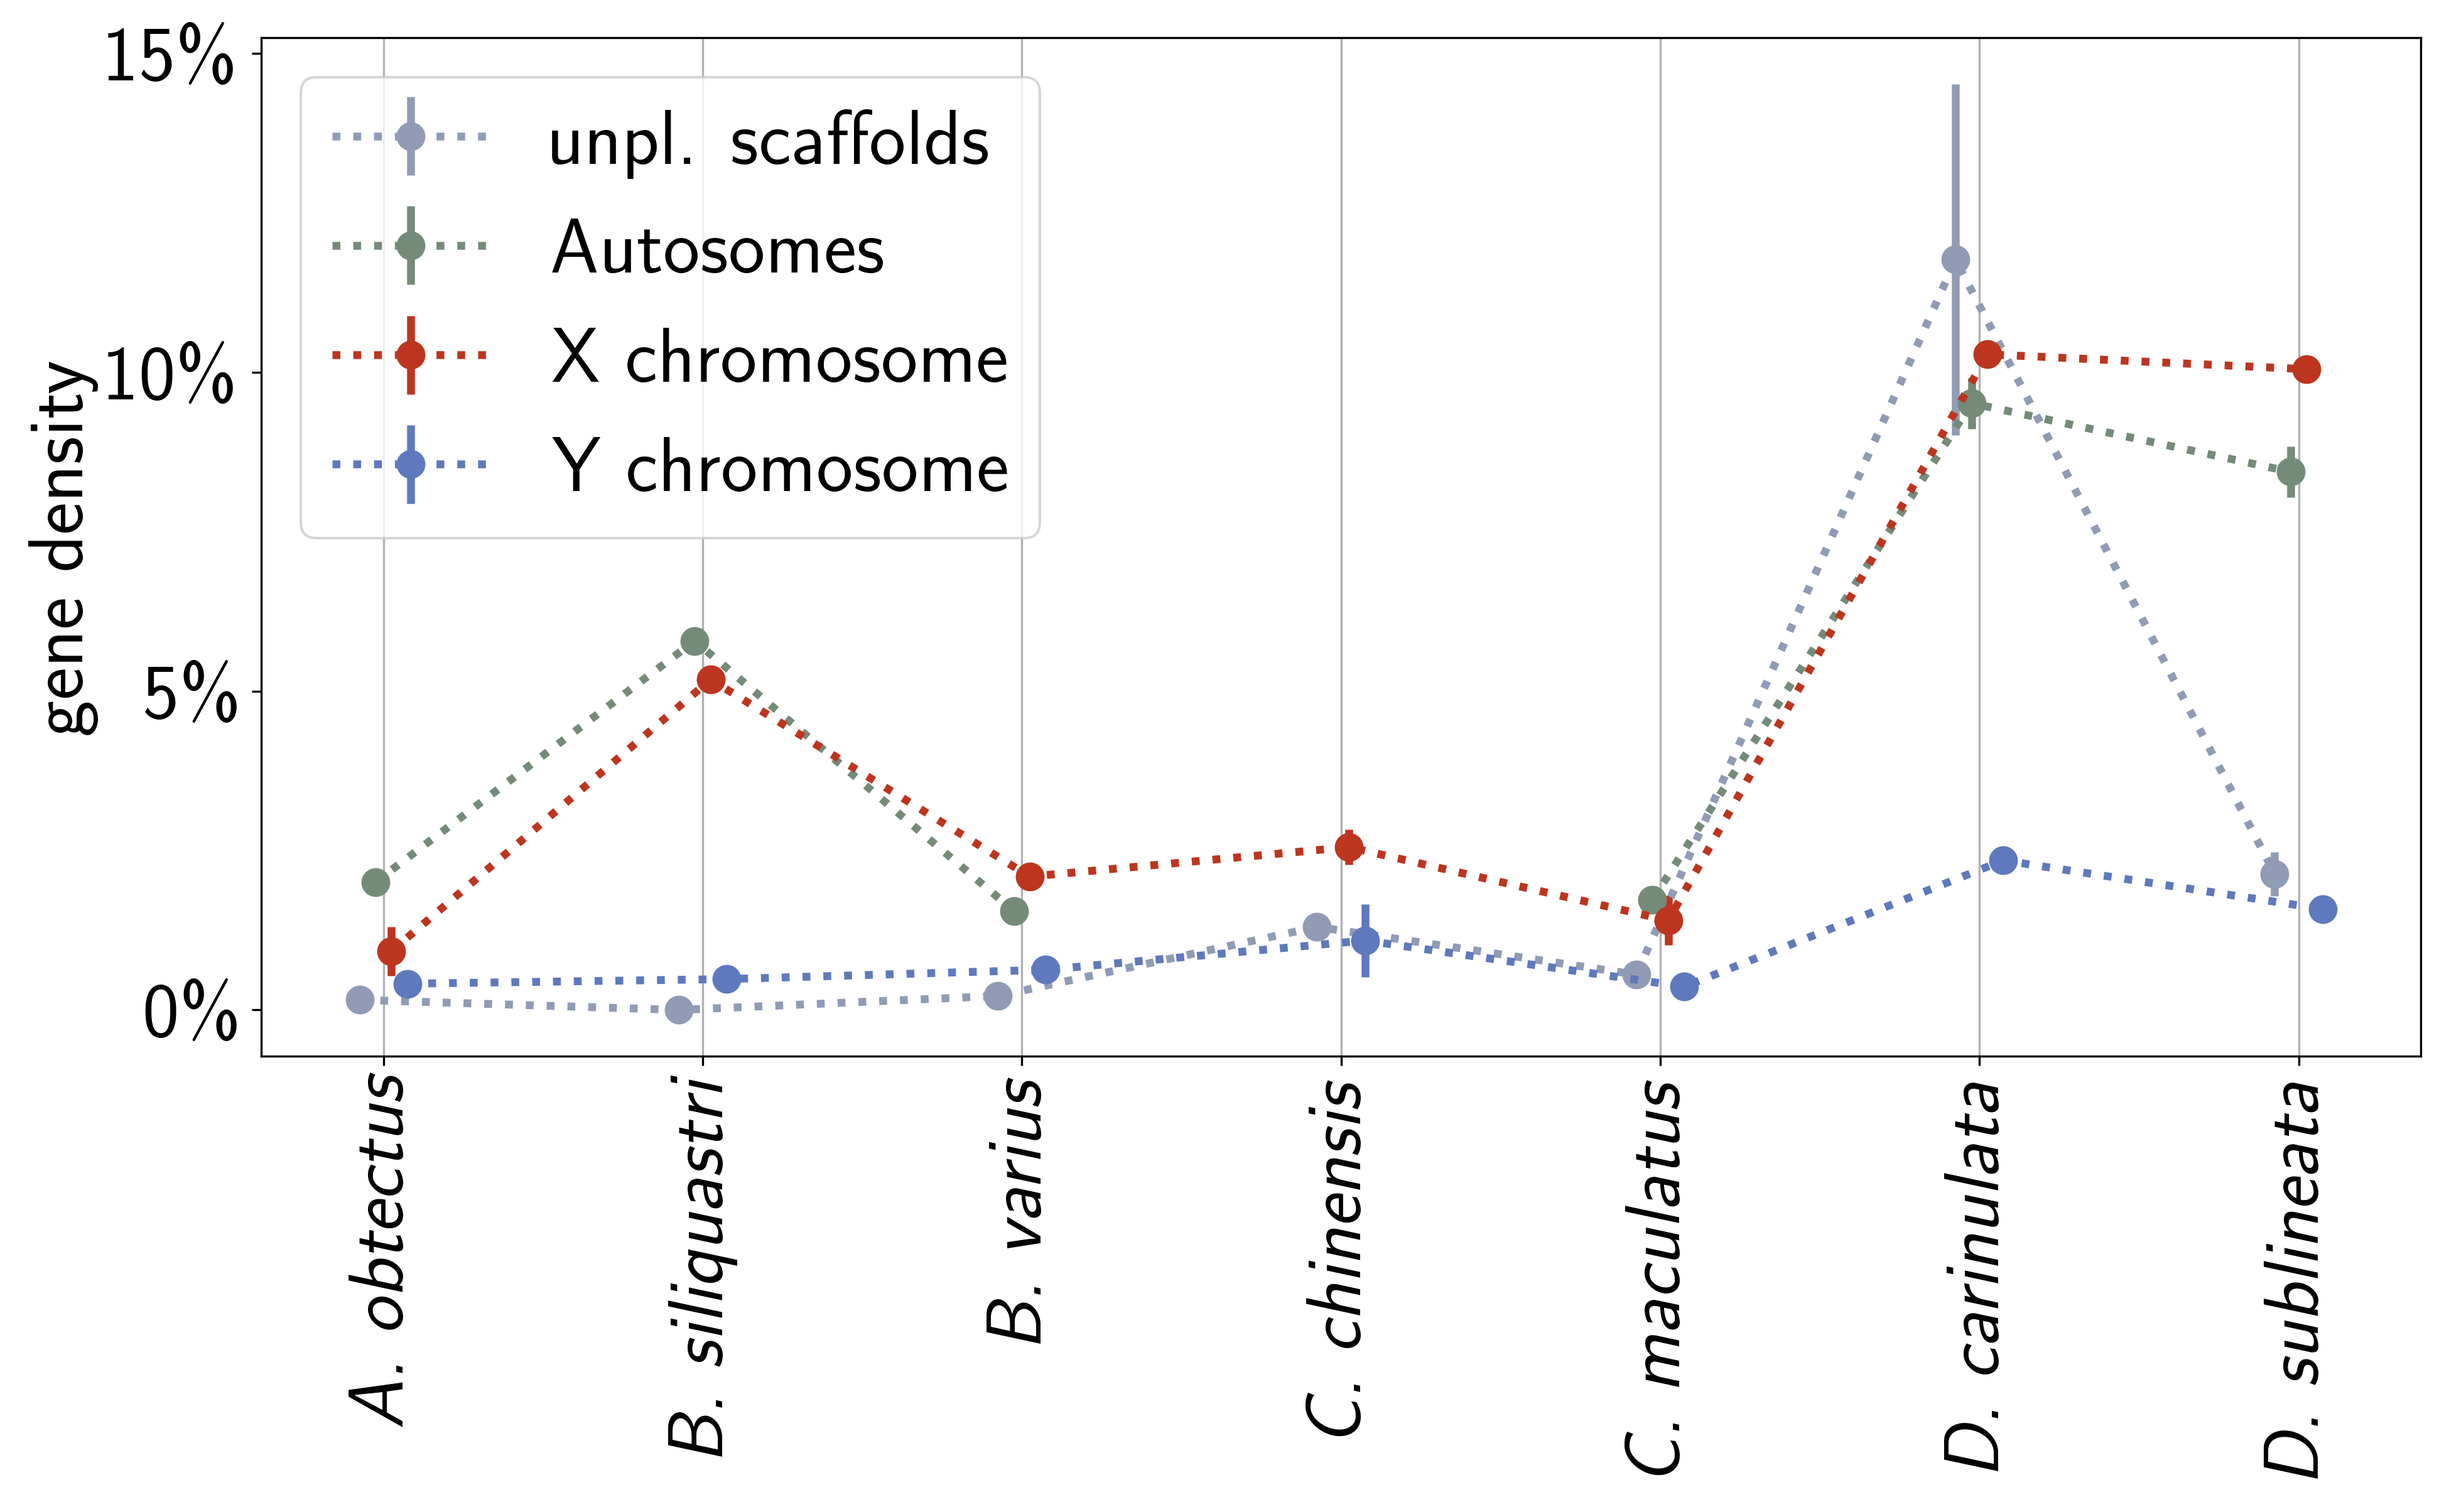
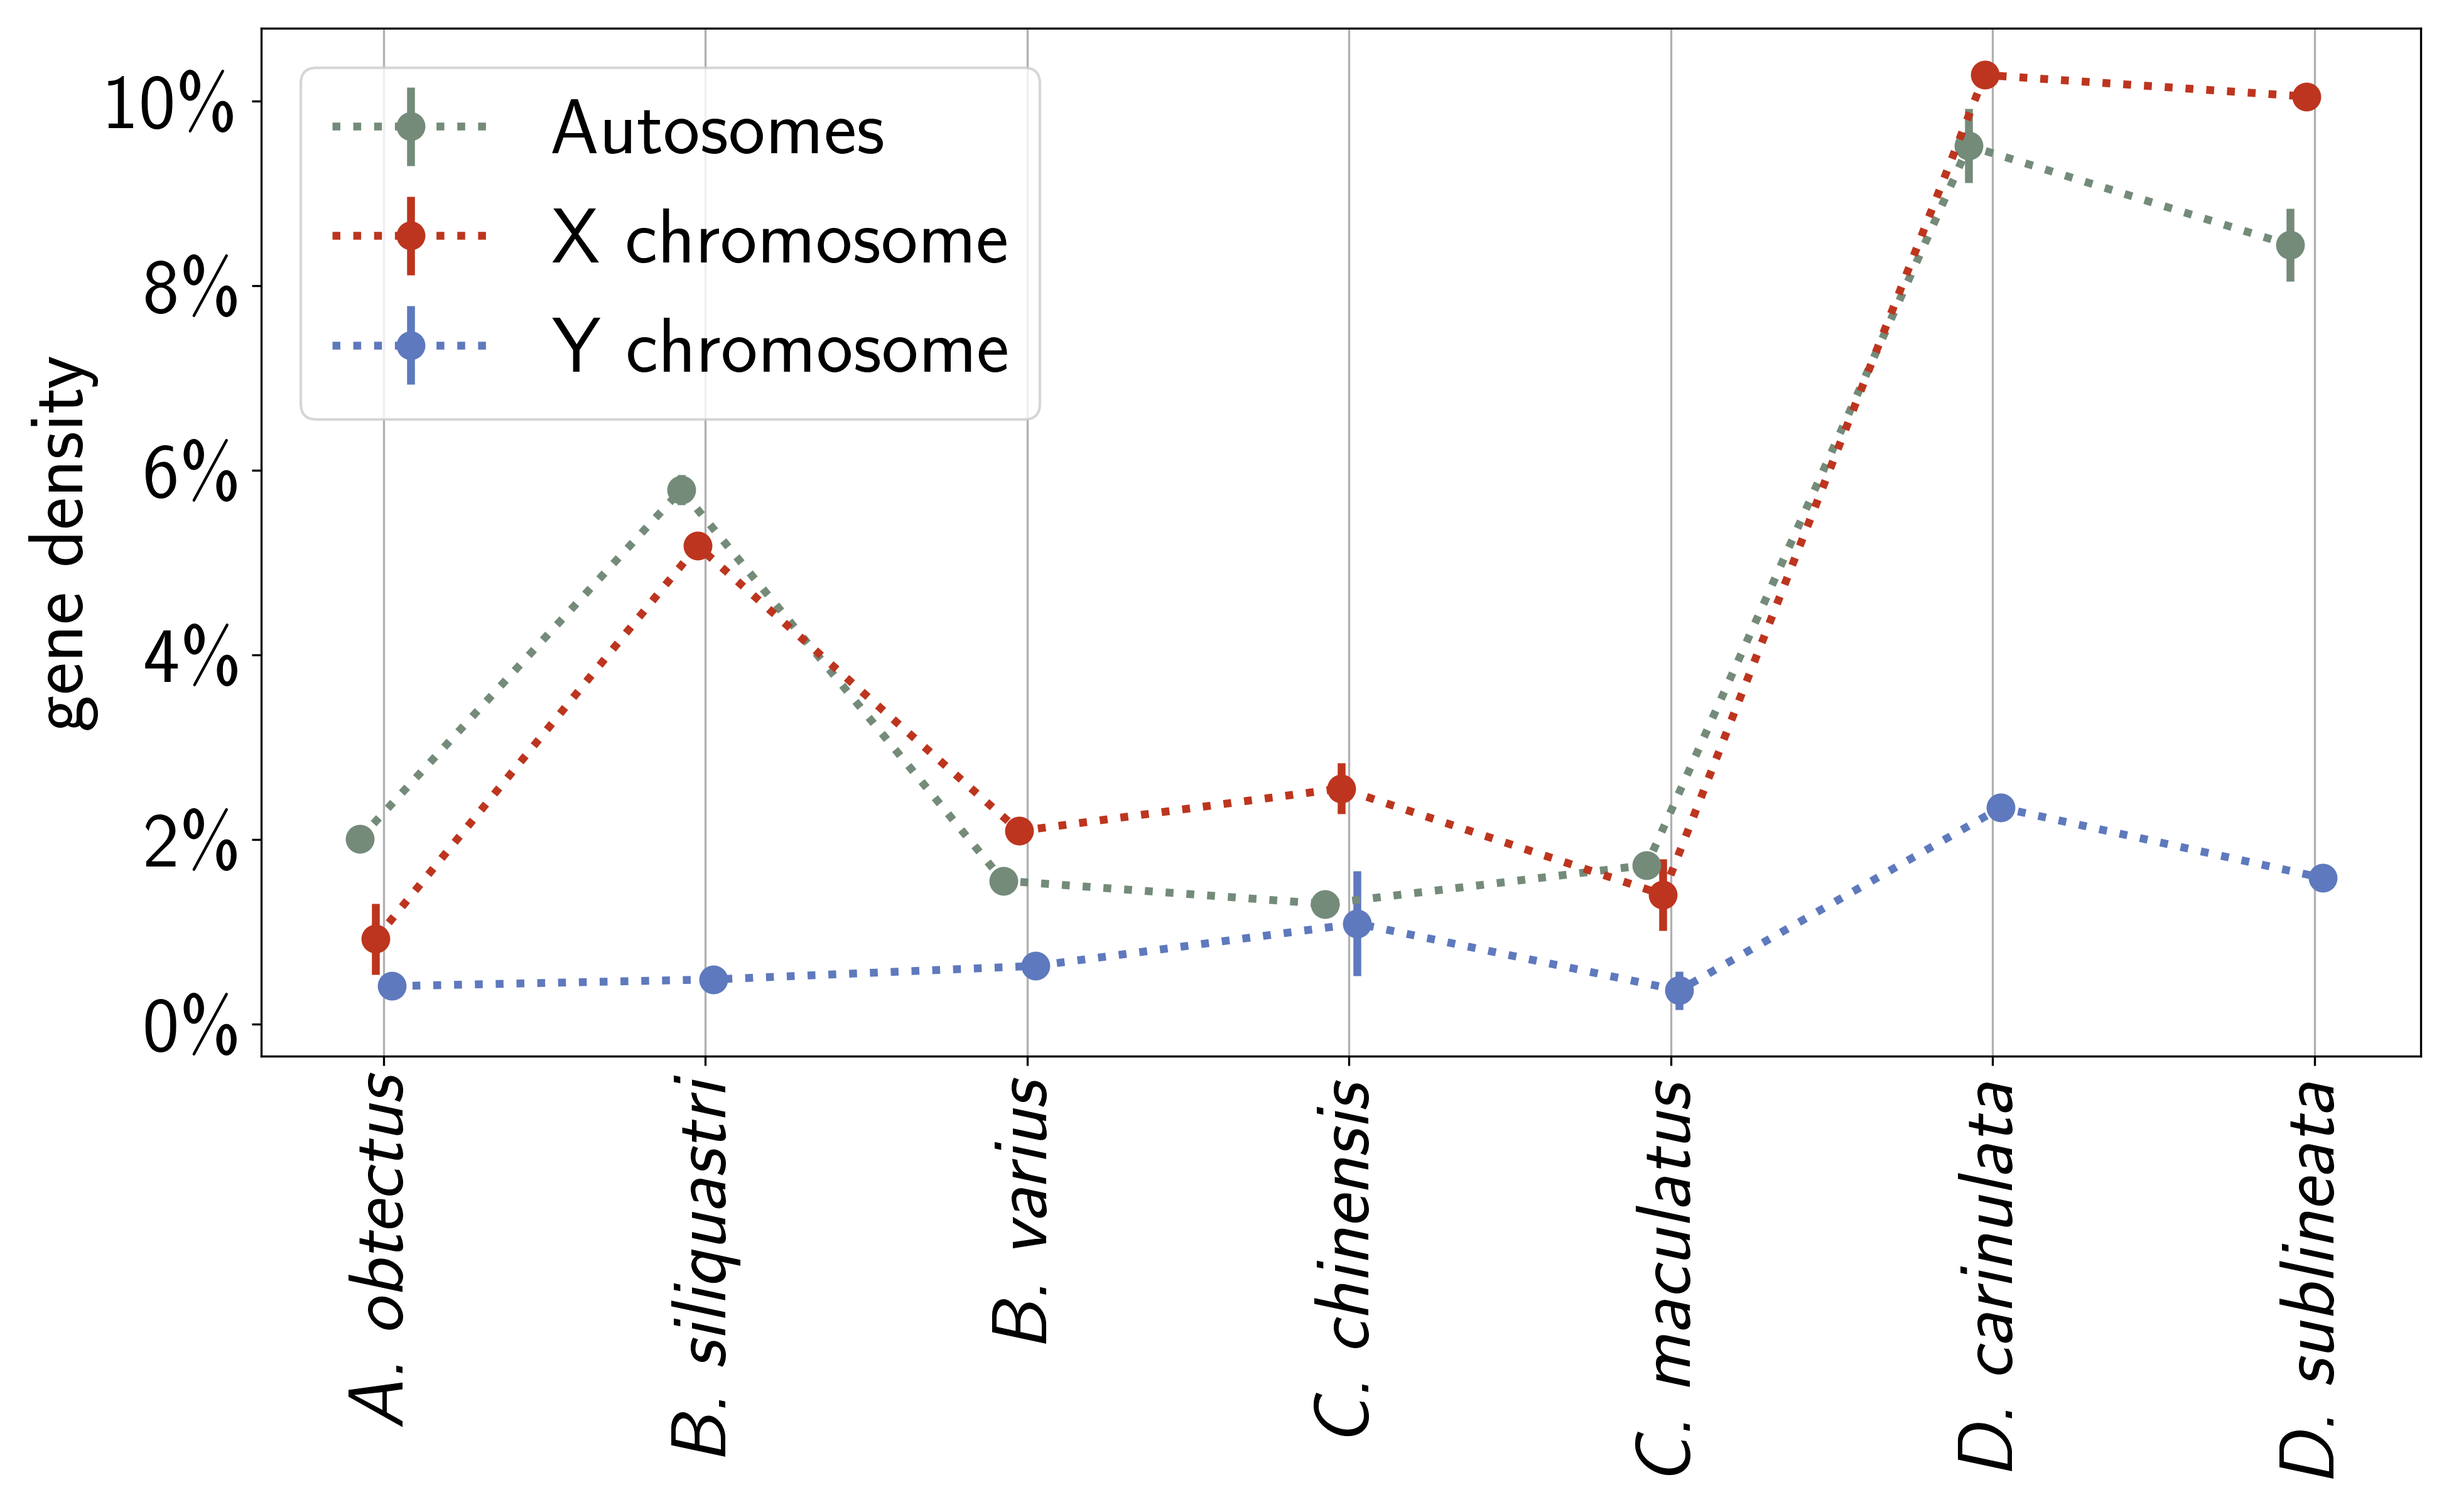
gene density vs gs

diff --git a/index.html b/index.html
@@ -663,20 +663,42 @@ coleoptera_samples/chinensis-M3new_ref.bam.idxstats </code></pre>
 
 <div style="float: left;width: 48%;">
     <p style="margin-left: 3.5em;"><b>gene annotations</b></p>
-    <p float="left">
-        <img loading="lazy" src="data/sex_chromosome_gene_density_gene.png" width="80%" />
-    </p>
+    <div class="tab">
+        <button class="tablinks" onclick="openTab(event, 'gene_density_annot')">basic species order</button>
+        <button class="tablinks" onclick="openTab(event, 'gene_density_annot_vs_GS')">vs. genome size</button>
+    </div>
+    <div id="gene_density_annot" class="tabcontent">
+        <p float="left">
+            <img loading="lazy" src="data/sex_chromosome_gene_density_gene.png" width="100%" />
+        </p>
+    </div>
+    <div id="gene_density_annot_vs_GS" class="tabcontent">
+        <p float="left">
+            <img loading="lazy" src="data/sex_chromosome_gene_density_vs_GS_gene.png" width="100%" />
+        </p>
+    </div>
     <p style="margin-right: 1em;">
         The smaller genomes have a higher gene density and frequency, which makes sense with the same amount of genes in half the size. 
         X and A are very similar, Y has a lower gene density, more on the level with unplaced scaffolds, and it stays low even in the 
         smaller genomes.
     </p>
 </div>
-<div style="float: left;width: 48%;">
+<div style="float: right;width: 48%;">
     <p style="margin-left: 3.5em;"><b>within-species paralogs from miniprot</b></p>
-    <p float="left">
-        <img loading="lazy" src="data/sex_chromosome_gene_density_mini.png" width="80%" />
-    </p>
+    <div class="tab">
+        <button class="tablinks" onclick="openTab(event, 'gene_density_mini')">basic species order</button>
+        <button class="tablinks" onclick="openTab(event, 'gene_density_mini_vs_GS')">vs. genome size</button>
+    </div>
+    <div id="gene_density_mini" class="tabcontent">
+        <p float="left">
+            <img loading="lazy" src="data/sex_chromosome_gene_density_mini.png" width="100%" />
+        </p>
+    </div>
+    <div id="gene_density_mini_vs_GS" class="tabcontent">
+        <p float="left">
+            <img loading="lazy" src="data/sex_chromosome_gene_density_vs_GS_mini.png" width="100%" />
+        </p>
+    </div>
     <p style="margin-left: 1em;">
         This includes all regions annotated as <code>CDS</code> by miniprot, ecluding introns just like the annotations. These are generally
         a lower proportion than the annotated regions, especially for A and X, but the Y is comparatively high. This also does not have the 

diff --git a/src/plot_gene_density.py b/src/plot_gene_density.py
@@ -12,6 +12,7 @@ import matplotlib.pyplot as plt
 from circos.make_circos_karyotype_file import autosomes_lists
 from matplotlib.ticker import FuncFormatter
 import numpy as np
+from GF_sizes import genome_sizes
 
 
 def get_exon_coverage(miniprot_filepath, miniprot=True, gff_annot=False):
@@ -92,8 +93,7 @@ def calculate_gene_density(contig_lengths, species_gff, sex_chromosomes, autosom
 
 
 
-def plot_gene_density(gene_density_dict, annot,  outfile_name = ""):
-    chromosome_categories = ["unplaced", "A", "X", "Y"]
+def plot_gene_density(gene_density_dict, annot,  outfile_name = "", chromosome_categories = ["unplaced", "A", "X", "Y"], genome_sizes = {}):
 
     plt.rcParams['text.usetex'] = True # use \\textit{{{}}} for species names
     plt.rcParams['text.latex.preamble'] = r'\usepackage{sfmath} \renewcommand{\familydefault}{\sfdefault}'
@@ -127,8 +127,12 @@ def plot_gene_density(gene_density_dict, annot,  outfile_name = ""):
         stderr_list = [0.0 for s in species_names]
         for j, species in enumerate(species_names):
             if gene_density_dict[species][cat]==[]:
-                mean_list[j] = np.nan
-                stderr_list[j] = np.nan
+                if species == "C_chinensis" and cat == "A":
+                    mean_list[j] = mean(gene_density_dict[species]["unplaced"])
+                    stderr_list[j] = sem(gene_density_dict[species]["unplaced"])
+                else:
+                    mean_list[j] = np.nan
+                    stderr_list[j] = np.nan
             else:
                 mean_list[j] = mean(gene_density_dict[species][cat])
                 stderr_list[j] = sem(gene_density_dict[species][cat])
@@ -162,6 +166,97 @@ def plot_gene_density(gene_density_dict, annot,  outfile_name = ""):
     print("Figure saved as: "+outfile_annot)
 
 
+def plot_gene_density_vs_GS(gene_density_dict, annot, species_names,  outfile_name = "", chromosome_categories = ["unplaced", "A", "X", "Y"], genome_sizes = {}, legend_loc="best"):
+
+    plt.rcParams['text.usetex'] = True # use \\textit{{{}}} for species names
+    plt.rcParams['text.latex.preamble'] = r'\usepackage{sfmath} \renewcommand{\familydefault}{\sfdefault}'
+    plt.rcParams['font.family'] = 'sans-serif'
+
+    colors_dict = {
+        "A" : "#748B7A",
+        "X" : "#BD351E", # red
+        "Y" : "#5E79BD", # blue
+        "Y_edge" : "#374C6E", # dusk blue darker
+        "X_edge" : "#771C2C", # dark amaranth
+        "A_edge" : "#376F59", # deep teal
+        "unplaced" : "#909bb5",
+        "vline" : '#9499A5', # cool steel
+        "vtext" : "#5B6378", #blue slate
+    }
+    legend_label = {
+        "A" : "Autosomes",
+        "unplaced" : "unpl. scaffolds",
+        "X" : "X chromosome",
+        "Y" : "Y chromosome"
+    }
+    fs = 15 # font size
+    ps = 20
+    lw = 2
+    
+    point_offset=0.05
+    xtick_ticklabel_pos = [i for i in range(len(species_names))]
+    
+    aspect_ratio = 18 / 14 # height / width
+    height_pixels = 1400  # Height in pixels
+    dpi = 300
+    width_pixels = int(height_pixels * aspect_ratio)  # Width in pixels
+
+    fig, ax = plt.subplots(1,1,figsize=(width_pixels/dpi, height_pixels/dpi))
+
+    GS_list = [genome_sizes[s] for s in species_names]
+    for x,s in zip(GS_list,species_names):
+        ax.axvline(x=x, color=colors_dict["vline"], linestyle='-', linewidth=lw*0.25)
+        species = s.replace("_", ". ")
+        ax.text(
+        x, 0.98, f"\\textit{{{species}}}",
+        rotation=90,transform=ax.get_xaxis_transform(),  # x: data, y: axes fraction
+        va="top",        # text hangs down from y=0.98
+        ha="right",      # sits just left of the line (use "left" for right side)
+        fontsize=fs*0.8, color=colors_dict["vtext"]
+    )
+    x_offset = {c:i*max(GS_list)/120 for c,i in zip(chromosome_categories,range(-1,2))}
+
+    for i,cat in enumerate(chromosome_categories):
+        gene_density = [0.0 for s in species_names]
+        gd_errors = [0.0 for s in species_names]
+        for j, species in enumerate(species_names):
+            if gene_density_dict[species][cat]==[]:
+                if species == "C_chinensis" and cat == "A":
+                    gene_density[j] = mean(gene_density_dict[species]["unplaced"])
+                    gd_errors[j] = sem(gene_density_dict[species]["unplaced"])
+                else:
+                    gene_density[j] = np.nan
+                    gd_errors[j] = np.nan
+            else:
+                gene_density[j] = mean(gene_density_dict[species][cat])
+                gd_errors[j] = sem(gene_density_dict[species][cat])
+        x_coord = [i+x_offset[cat] for i in GS_list]
+        # ax.plot(xtick_pos, mean_list, label = legend_label[cat], color = colors[cat], linewidth = 4) 
+        print(f"\t{cat}: {gene_density}")
+
+        ax.scatter(x_coord, gene_density, color = colors_dict[cat], s=ps, label = legend_label[cat])
+        ax.errorbar(x_coord, gene_density, yerr=gd_errors, fmt="none", ecolor=colors_dict[f"{cat}_edge"], capsize=4, elinewidth=lw)
+        # ax.errorbar(xtick_pos, mean_list, yerr = stderr_list, color=colors[cat], linewidth =3, marker = ".", markersize=20, linestyle = ":", label = legend_label[cat])
+
+    ax.yaxis.set_major_formatter(FuncFormatter(lambda x, pos: '' if x > 1 else f'{x*100.0:.0f}\%'))
+    ylab = f"gene density"
+    ax.set_ylabel(ylab, fontsize = fs)
+    ax.tick_params(axis ='y', labelsize = fs)  
+    ax.tick_params(axis ='x', labelsize = fs)  
+    ax.set_xlabel(f"Genome size in Mb", fontsize = fs)
+    # ymin,ymax = ax.get_ylim()
+    # ax.set_ylim(0,ymax)
+    
+    ax.tick_params(axis='y', labelsize=fs)
+    ax.legend(fontsize=fs, loc=legend_loc)
+
+    plt.tight_layout()
+
+    outfile_annot = outfile_name.replace(".png", f"_{annot}.png")
+    plt.savefig(outfile_annot, dpi = 300, transparent = True)# , bbox_inches='tight')
+    print("Figure saved as: "+outfile_annot)
+
+
 if __name__ == "__main__":
     username = "miltr339"
     faidx_dicts,_ = fasta_indices(username=username)
@@ -175,7 +270,10 @@ if __name__ == "__main__":
     ## get gene densities for annotated genes from the gff
     gene_densities = {}
     gene_counts = {}
-    plot_miniprot = True
+
+    plot_miniprot = False
+
+
     for species, miniprot_path in miniprot_dict.items():
         print(f"\n====================== {species} ======================")
         if plot_miniprot:
@@ -212,4 +310,17 @@ if __name__ == "__main__":
                     print(f" - {chr_category} : NA, ({len(density_list)} contigs)")
 
 
-    plot_gene_density(gene_density_dict=gene_densities, annot=annot, outfile_name=f"{data_dir}sex_chromosome_gene_density.png")
+    # plot_gene_density(
+    #     gene_density_dict=gene_densities, annot=annot, 
+    #     outfile_name=f"{data_dir}sex_chromosome_gene_density.png",
+    #     chromosome_categories = ["A", "X", "Y"])
+
+    if plot_miniprot:
+        legend_loc = "center left"
+    else:
+        legend_loc = "center"
+
+    plot_gene_density_vs_GS(
+        gene_density_dict=gene_densities, annot=annot, species_names=list(genome_sizes.keys()),
+        outfile_name=f"{data_dir}sex_chromosome_gene_density_vs_GS.png",
+        chromosome_categories = ["A", "X", "Y"],genome_sizes=genome_sizes, legend_loc=legend_loc)

diff --git a/src/translocation_events.py b/src/translocation_events.py
@@ -40,8 +40,4 @@ if __name__ == "__main__":
         unassigned_genes_path=unassigned_genes_path,
         miniprot_paths_dict=miniprot_dict)
 
-    plot_GS_correlations(
-        orthogroups=orthogorups,
-        genome_sizes=genome_sizes,
-        outfile_prefix=f"{data_dir}/GS_correlation")
     
